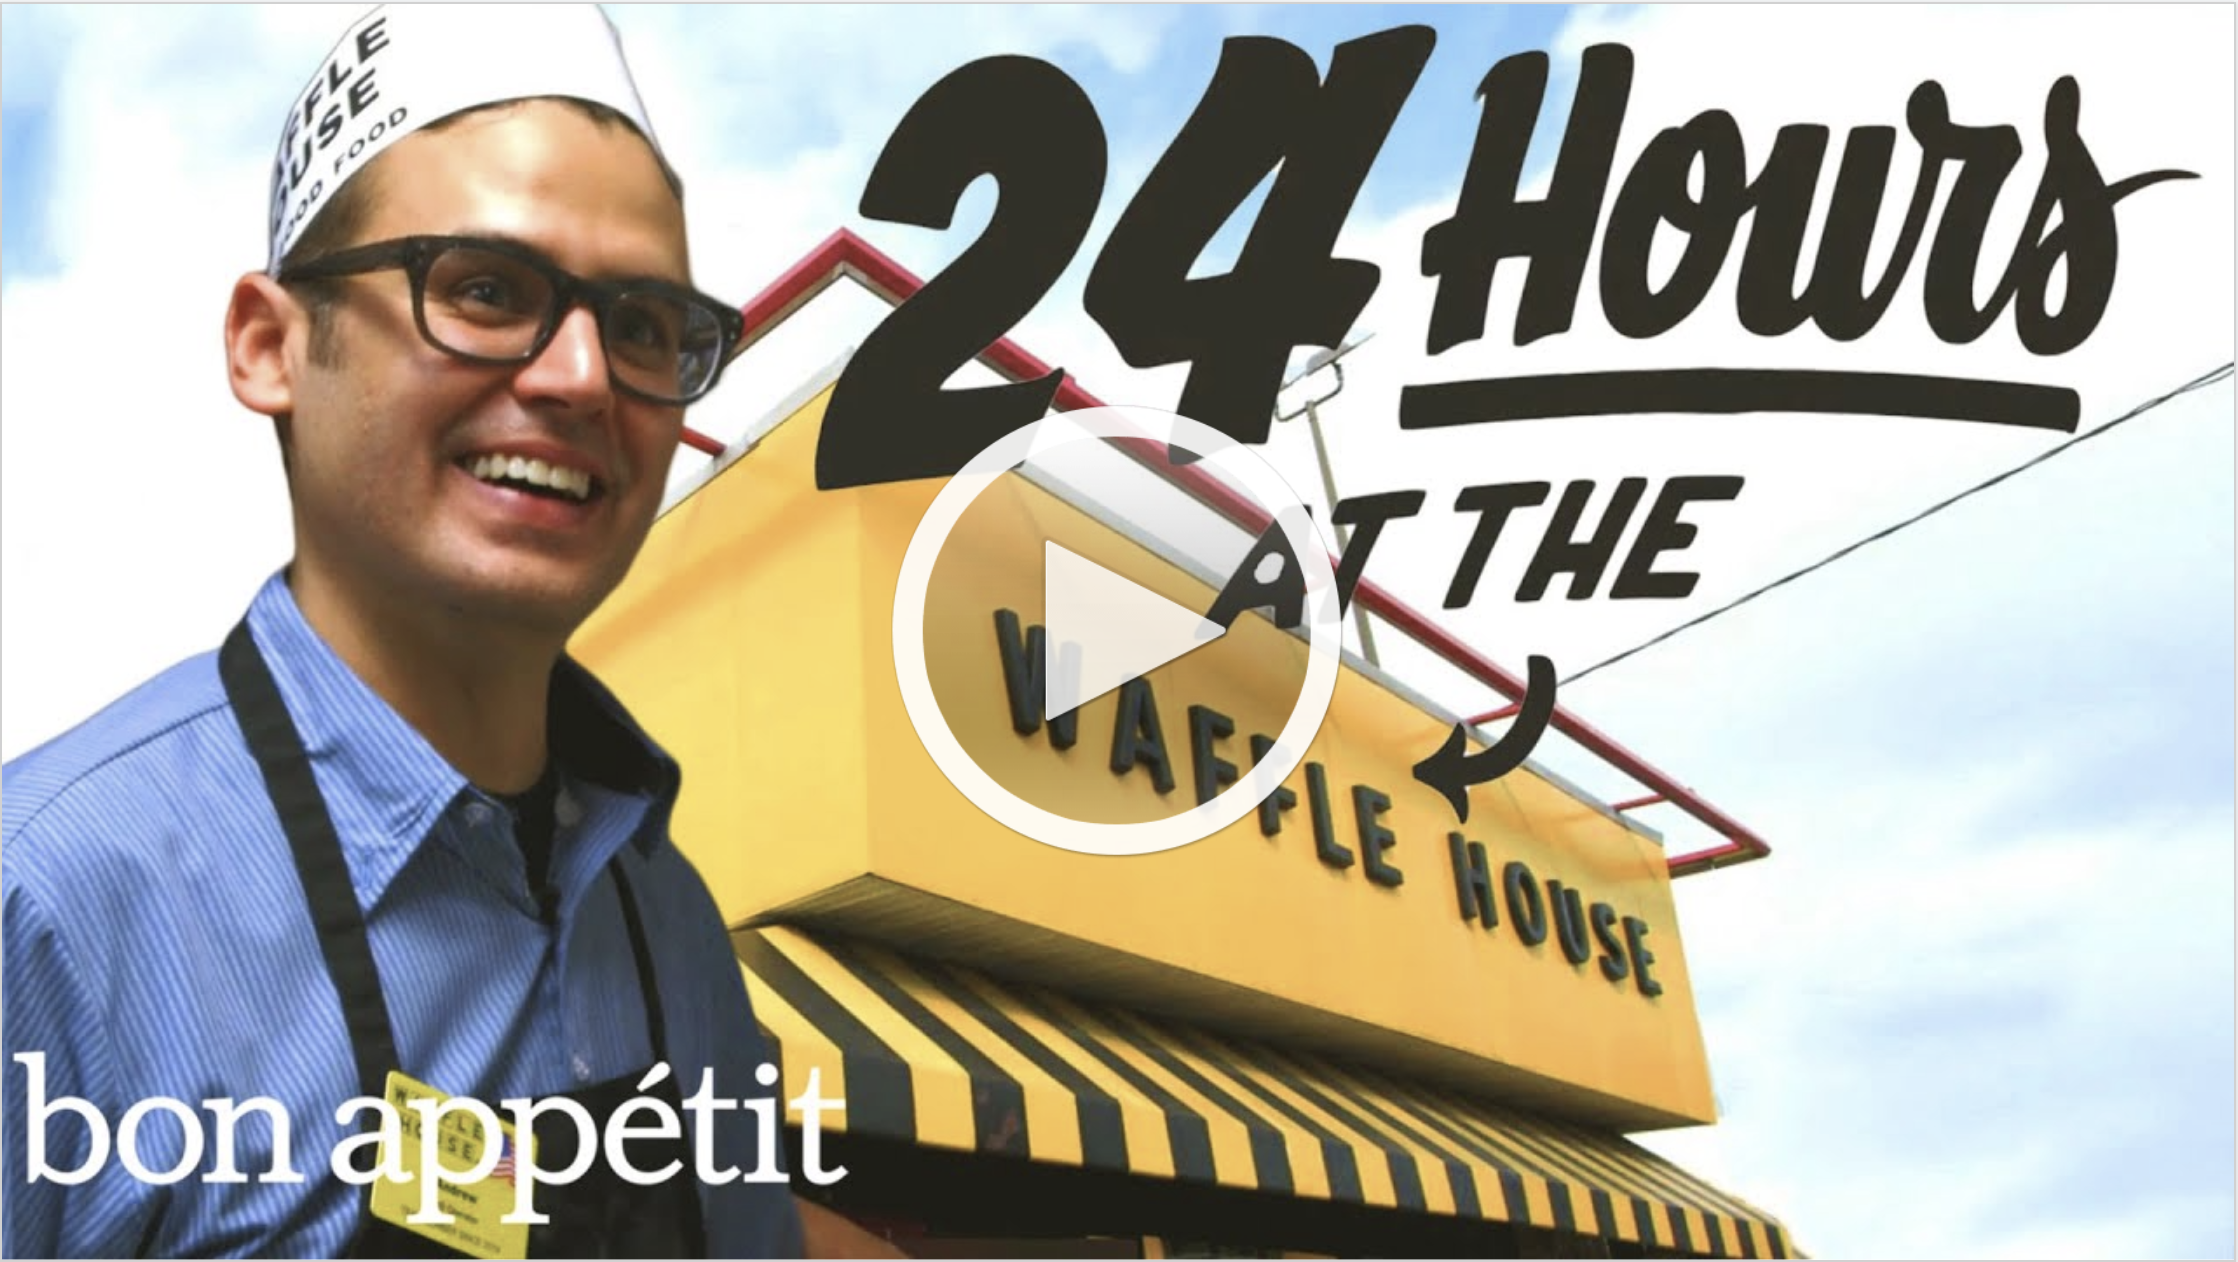
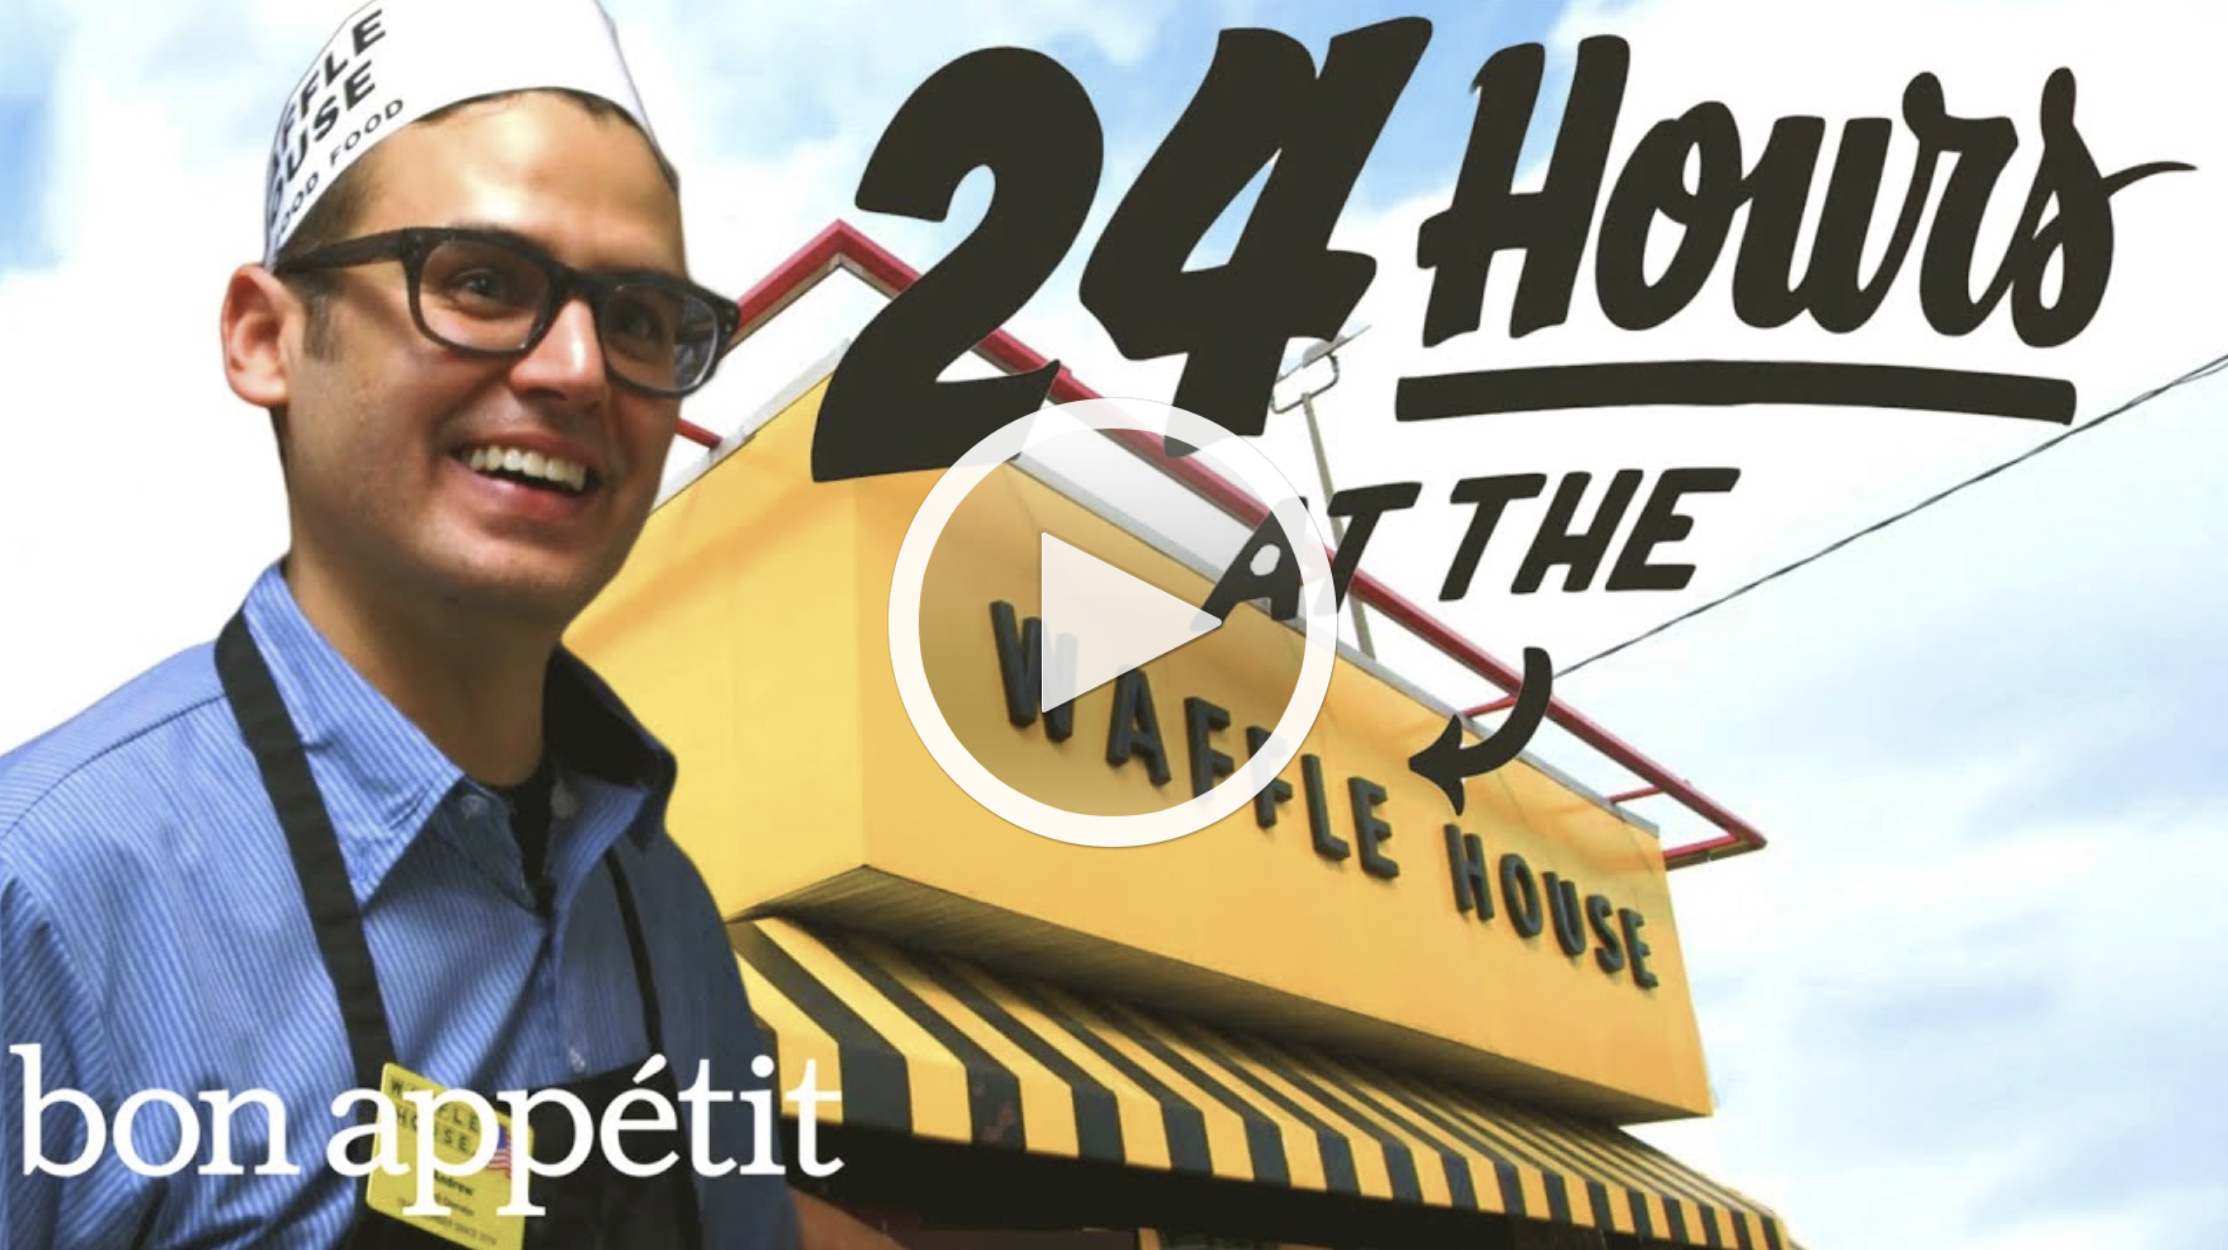
Improve Styling

diff --git a/src/Screens/Home.js b/src/Screens/Home.js
@@ -26,13 +26,13 @@ export default class Home extends React.Component {
     return (
       <SafeAreaView style={{}}>
         <View>
-          <ScrollView>
+          <ScrollView style={{ backgroundColor: "white" }}>
             <View>
               <TouchableOpacity
                 onPress={() =>
                   this.props.navigation.navigate('Series', { seriesTitle: workingHours })
                 }>
-                <Text style={{ backgroundColor: "white" }}>{'Now available: Season 1 of 24 Hours at the'}</Text>
+                <Text style={{paddingTop: 10}}>{'Now available: Season 1 of 24 Hours at the'}</Text>
                 <Image
                   style={styles.SeriesImage}
                   source={require('../ThumbNails/featured.png')}
@@ -63,7 +63,7 @@ export default class Home extends React.Component {
                       />
                     </TouchableOpacity>
                   </View>
-                  <View style={{ height: 200, width: 130, marginLeft: 20 }}>
+                  <View style={{ height: 200, width: 130, marginLeft: 15 }}>
                     <TouchableOpacity
                       onPress={() =>
                         this.props.navigation.navigate('Series', { seriesTitle: workingHours })
@@ -74,7 +74,7 @@ export default class Home extends React.Component {
                       />
                     </TouchableOpacity>
                   </View>
-                  <View style={{ height: 200, width: 130, marginLeft: 20 }}>
+                  <View style={{ height: 200, width: 130, marginLeft: 15 }}>
                     <TouchableOpacity
                       onPress={() =>
                         this.props.navigation.navigate('Series', { seriesTitle: JustADash })
@@ -85,7 +85,7 @@ export default class Home extends React.Component {
                       />
                     </TouchableOpacity>
                   </View>
-                  <View style={{ height: 200, width: 130, marginLeft: 20 }}>
+                  <View style={{ height: 200, width: 130, marginLeft: 15 }}>
                     <TouchableOpacity
                       onPress={() =>
                         this.props.navigation.navigate('Series', { seriesTitle: HowToWMM })
@@ -111,7 +111,7 @@ export default class Home extends React.Component {
               <View style={{ height: 200, marginTop: 20 }}>
                 <ScrollView horizontal={true}>
                   {/*The code inside of this scrollView will be put in the thumbnail component when working as we want it to*/}
-                  <View style={{ height: 200, width: 130, marginLeft: 20 }}>
+                  <View style={{ height: 200, width: 130, marginLeft: 15 }}>
                     <TouchableOpacity
                       onPress={() =>
                         this.props.navigation.navigate('Series', { seriesTitle: perfectMeatball })
@@ -122,7 +122,7 @@ export default class Home extends React.Component {
                       />
                     </TouchableOpacity>
                   </View>
-                  <View style={{ height: 200, width: 130, marginLeft: 20 }}>
+                  <View style={{ height: 200, width: 130, marginLeft: 15 }}>
                     <TouchableOpacity
                       onPress={() =>
                         this.props.navigation.navigate('Series', { seriesTitle: butBetter })
@@ -133,7 +133,7 @@ export default class Home extends React.Component {
                       />
                     </TouchableOpacity>
                   </View>
-                  <View style={{ height: 200, width: 130, marginLeft: 20 }}>
+                  <View style={{ height: 200, width: 130, marginLeft: 15 }}>
                     <TouchableOpacity
                       onPress={() =>
                         this.props.navigation.navigate('Series', { seriesTitle: thanksgivingLeftovers })

diff --git a/src/Components/Episode.js b/src/Components/Episode.js
@@ -26,12 +26,11 @@ export default class Episode extends React.Component {
               console.log('onChangeFullscreen', e.isFullscreen)
             }
           />
-          <View style={{flexDirection: 'column', justifyContent: 'center'}}>
-            <Text>Episode {this.props.episode.episode_number}</Text>
-            <Text>{this.props.episode.episode_title}</Text>
+          <View style={{flexDirection: 'column', justifyContent: 'center', flex: 1, marginLeft: 10 }}>
+            <Text style={{ fontWeight: "bold" }}>{this.props.episode.episode_number}. {this.props.episode.episode_title}</Text>
           </View>
         </View>
-        <View style={{flexDirection: 'column'}}>
+        <View style={{flexDirection: 'column', paddingTop: 10, paddingBottom: 20}}>
           <Text>{this.props.episode.description}</Text>
         </View>
       </SafeAreaView>

diff --git a/src/Components/SeriesHeader.js b/src/Components/SeriesHeader.js
@@ -20,7 +20,7 @@ export default class SeriesHeader extends React.Component {
           //source={require(JSON.stringify(this.props.series.image))}
           source={this.props.series.image}
         />
-        <Text>{this.props.series.description}</Text>
+        <Text style={{ paddingBottom: 20 }}>{this.props.series.description}</Text>
       </View>
     );
   }

diff --git a/src/Screens/Series.js b/src/Screens/Series.js
@@ -38,7 +38,7 @@ export default class Series extends React.Component {
 
   render() {
     return (
-      <ScrollView>
+      <ScrollView style={{ paddingLeft: 15, paddingRight:15 }}>
         <View>
           <SeriesHeader series={this.series} />
           {this.renderEpisodes()}

diff --git a/Stylesheet.js b/Stylesheet.js
@@ -15,7 +15,7 @@ const styles = {
   },
   SeriesImage: {
     width: '100%',
-    height: 260,
+    height: 220,
   },
   Thumbnail: {
     height: '100%',
